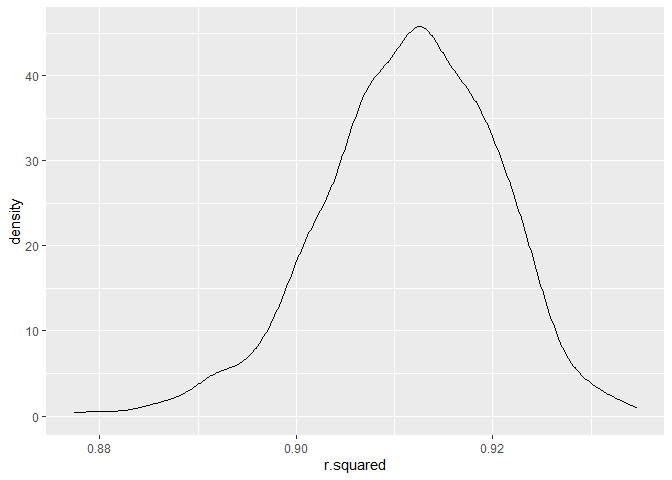
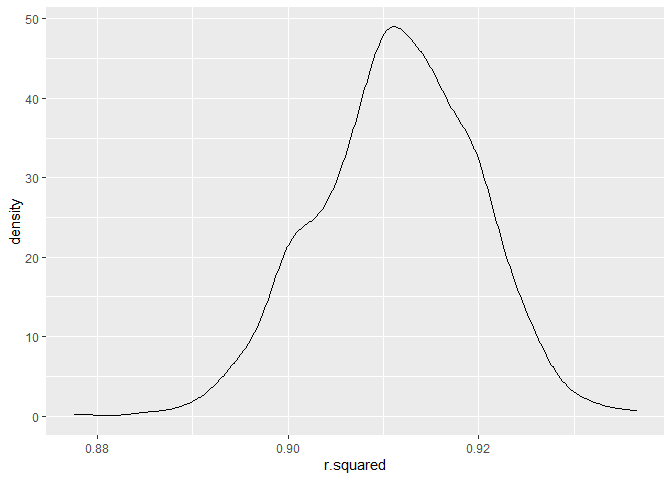
changed Problem 3

diff --git a/homework-6.md b/homework-6.md
@@ -425,7 +425,7 @@ cv_df =
   mutate(
     fit_mod  = map(train, ~lm(bwt ~ babysex + bhead + blength + wtgain, data = .x)),
     main_mod  = map(train, ~lm(bwt ~ blength + gaweeks, data = .x)),
-    interaction_mod  = map(train,  ~lm(bwt ~ babysex + bhead + blength  + babysex*bhead + babysex*blength + bhead*blength, data = .x))) %>% 
+    interaction_mod  = map(train,  ~lm(bwt ~ babysex + bhead + blength  + babysex*bhead + babysex*blength + bhead*blength + babysex*bhead*blength, data = .x))) %>% 
   mutate(
     rmse_fit = map2_dbl(fit_mod, test, ~rmse(model = .x, data = .y)),
     rmse_main = map2_dbl(main_mod, test, ~rmse(model = .x, data = .y)),
